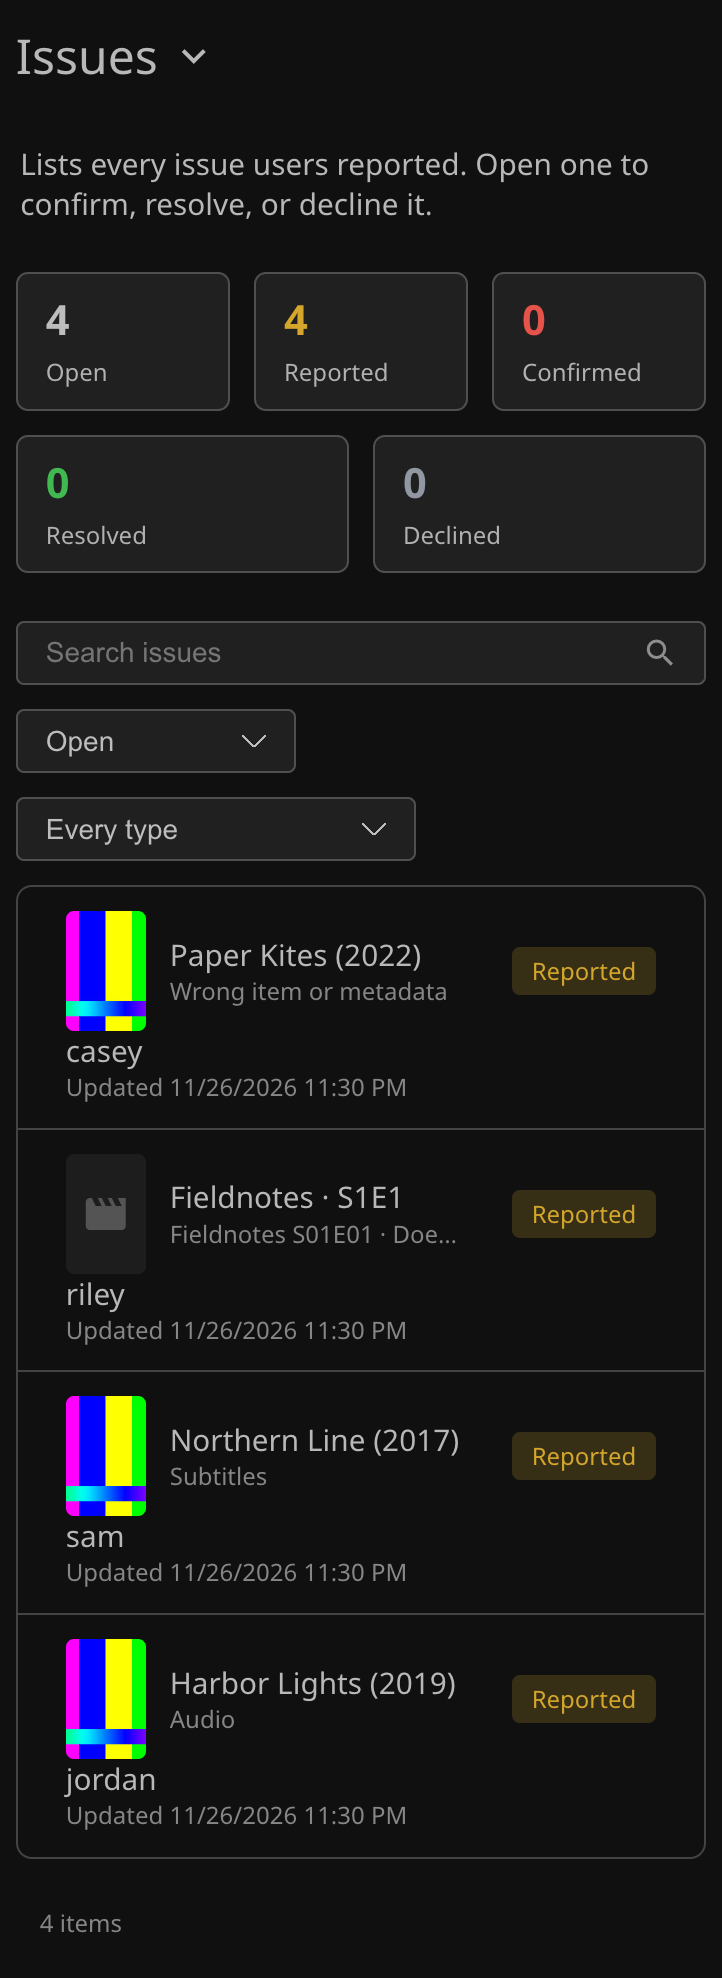
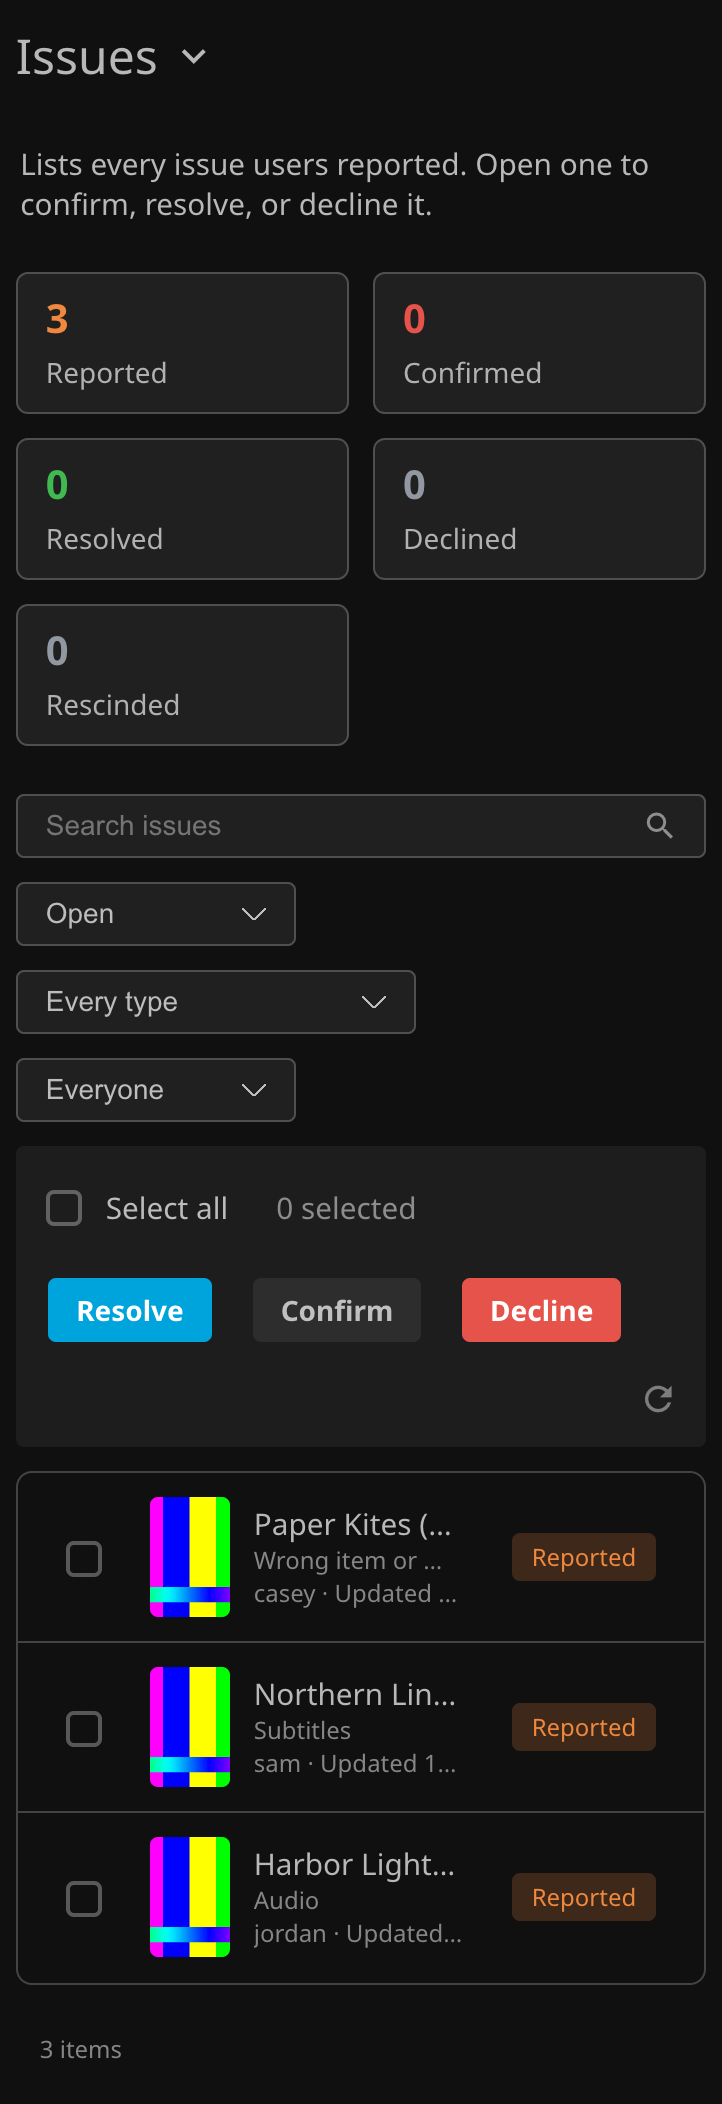
retake request shots and tile the issue notes

diff --git a/Jellyfin.Plugin.Necto/Web/necto_issues.js b/Jellyfin.Plugin.Necto/Web/necto_issues.js
@@ -557,8 +557,7 @@ export default function (view) {
             card.element,
             issue.FileChanged ? h('div', { class: 'stolon-warn', text: t.tr('IssuesHelpFileChanged') }) : null,
             details.element,
-            notes ? h('h3', { class: 'stolon-subsection-title', text: t.tr('LabelNotes') }) : null,
-            notes ? notes.element : null,
+            notes ? nectoModule.createCollapsibleSection({ title: t.tr('LabelNotes'), icon: 'forum', collapsible: false, content: notes.element }).element : null,
             status
         ]);
         var buttons = [{ text: t.tr('ButtonCancel'), className: 'stolon-button stolon-secondary', action: function (close) { close(); } }];

diff --git a/tools/screenshots/seed.py b/tools/screenshots/seed.py
@@ -75,8 +75,9 @@ def sign_in(api_class, base, state, name):
 
 
 def enable_tools(api):
-    """Issues, the proxy and WireGuard are off until turned on."""
+    """Requests, Issues, the proxy and WireGuard are off until turned on."""
     cfg = config(api)
+    cfg['Requests']['Enabled'] = True
     cfg['Issues']['Enabled'] = True
     cfg['WireGuard']['Enabled'] = True
     cfg['WireGuard']['HostEnabled'] = True
